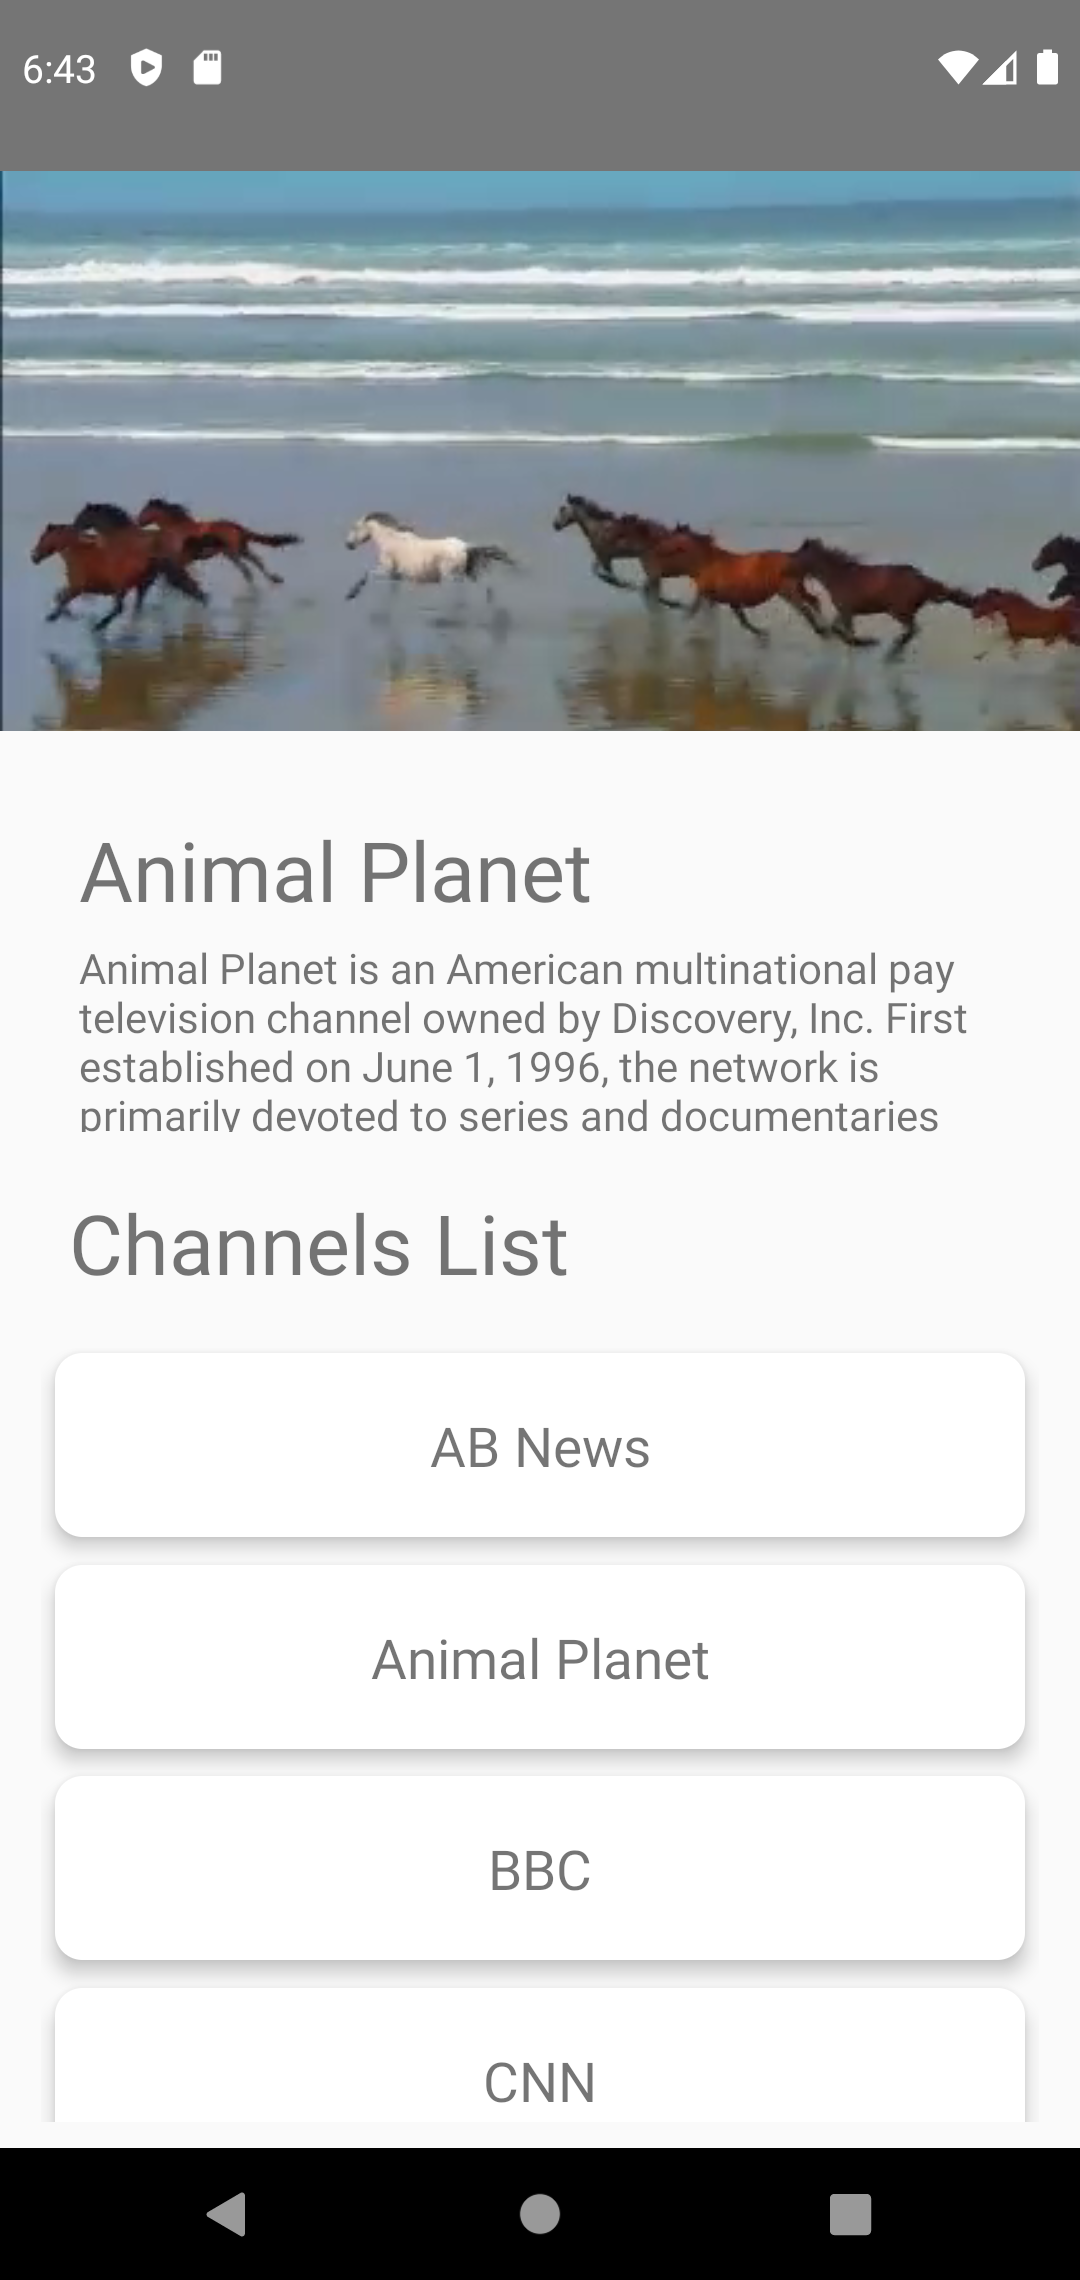
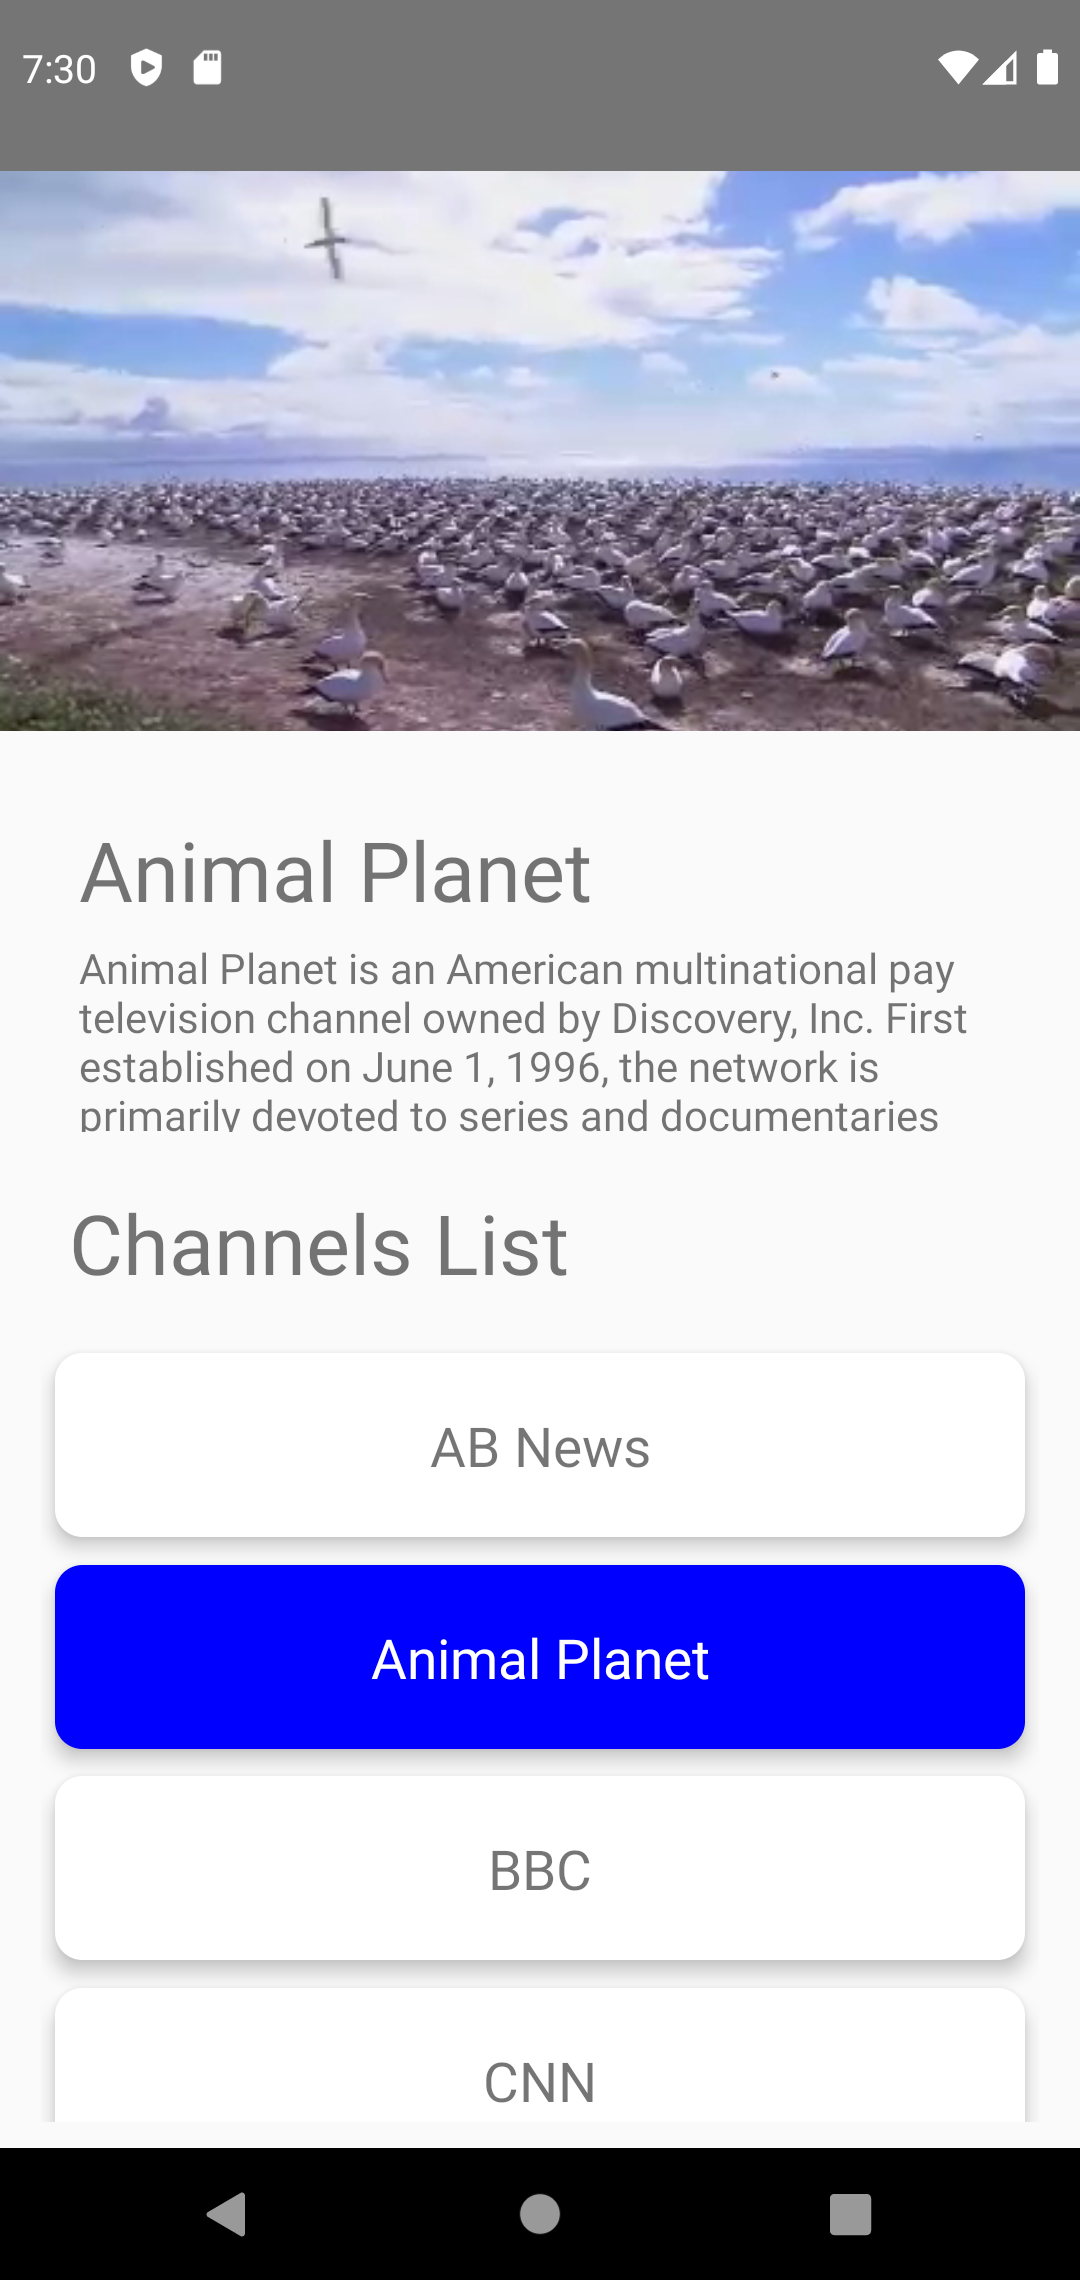
changes to selected channel style

Changed region(s): [[0.0, 0.0623, 1.0, 0.3425], [0.0306, 0.6851, 0.9472, 0.7785]]

diff --git a/src/components/Channel.js b/src/components/Channel.js
@@ -1,19 +1,32 @@
 import {View, Text, TouchableOpacity} from 'react-native';
 import React from 'react';
 import {StyleSheet} from 'react-native';
-import {useDispatch} from 'react-redux';
+import {useDispatch, useSelector} from 'react-redux';
 import {selectChannel} from '../Services/Channels/action';
 
 export default function Channel({item}) {
+  const currentChannel = useSelector(
+    state => state.channelReducer.currentChannel,
+  );
   const dispatch = useDispatch();
 
   const handleSelectedChannel = id => {
     dispatch(selectChannel(id));
   };
   return (
-    <View style={styles.channelCard}>
+    <View
+      style={
+        item.meta.id === currentChannel.meta.id
+          ? [styles.channelCard, styles.selected]
+          : styles.channelCard
+      }>
       <TouchableOpacity onPress={() => handleSelectedChannel(item.meta.id)}>
-        <Text style={{fontSize: 20, textAlign: 'center'}}>
+        <Text
+          style={
+            item.meta.id === currentChannel.meta.id
+              ? [styles.cardText, styles.cardSelected]
+              : styles.cardText
+          }>
           {item.meta.title}
         </Text>
       </TouchableOpacity>
@@ -28,5 +41,12 @@ const styles = StyleSheet.create({
     elevation: 5,
     padding: 20,
     margin: 5,
+  },
+  selected: {
+    backgroundColor: 'blue',
+  },
+  cardText: {fontSize: 20, textAlign: 'center'},
+  cardSelected: {
+    color: 'white',
   },
 });
